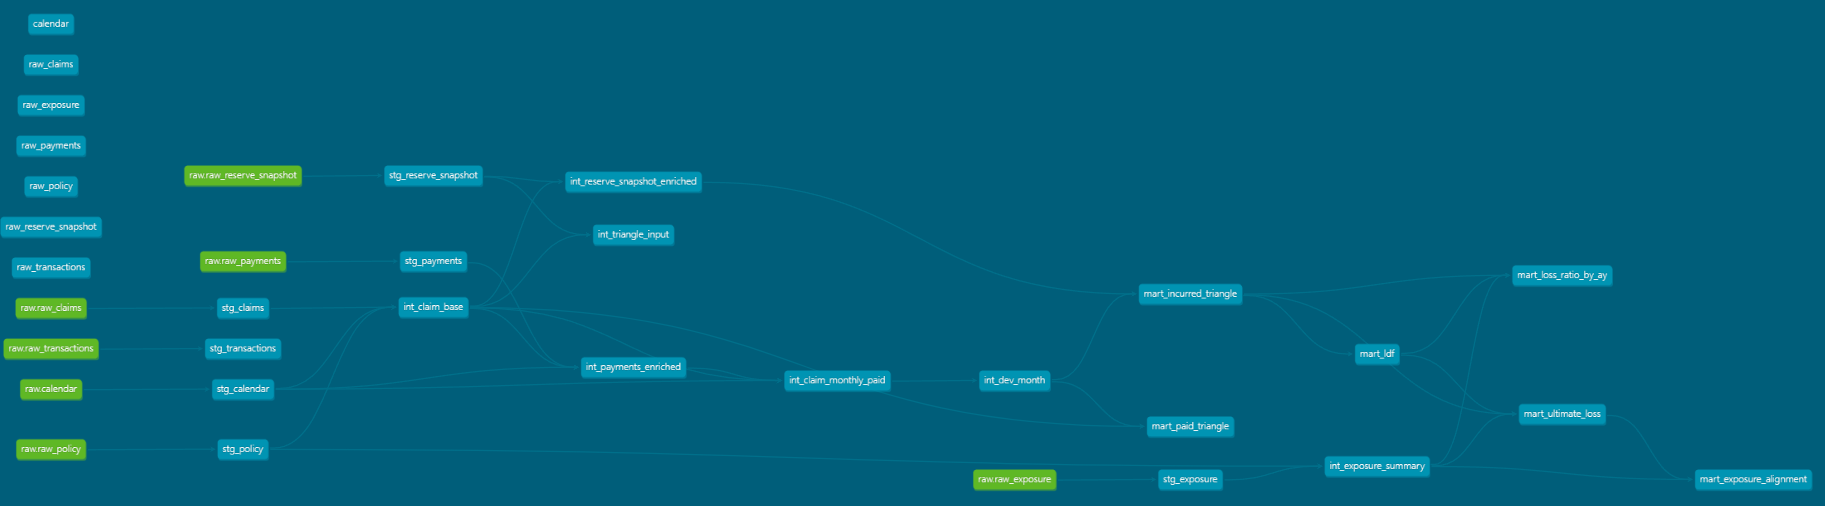
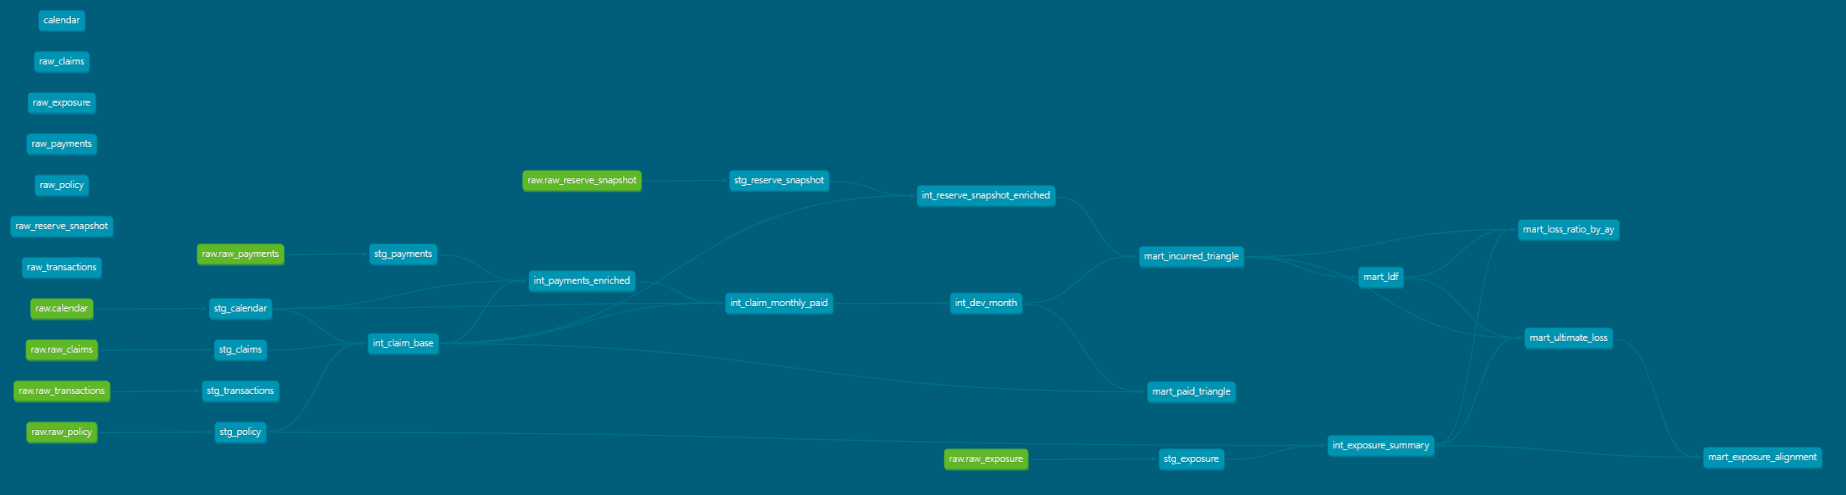
Change of Readme

diff --git a/README FR.md b/README FR.md
@@ -48,8 +48,6 @@ graph LR
     mart_incurred_triangle --> mart_ldf --> mart_ultimate_loss
     mart_incurred_triangle --> mart_loss_ratio_by_ay
     mart_ldf --> mart_loss_ratio_by_ay
-    mart_ultimate_loss --> mart_exposure_alignment
-    int_exposure_summary --> mart_exposure_alignment
     int_exposure_summary --> mart_loss_ratio_by_ay
     int_exposure_summary --> mart_ultimate_loss
 ```

diff --git a/README.md b/README.md
@@ -47,8 +47,6 @@ graph LR
     mart_incurred_triangle --> mart_ldf --> mart_ultimate_loss
     mart_incurred_triangle --> mart_loss_ratio_by_ay
     mart_ldf --> mart_loss_ratio_by_ay
-    mart_ultimate_loss --> mart_exposure_alignment
-    int_exposure_summary --> mart_exposure_alignment
     int_exposure_summary --> mart_loss_ratio_by_ay
     int_exposure_summary --> mart_ultimate_loss
 ```
